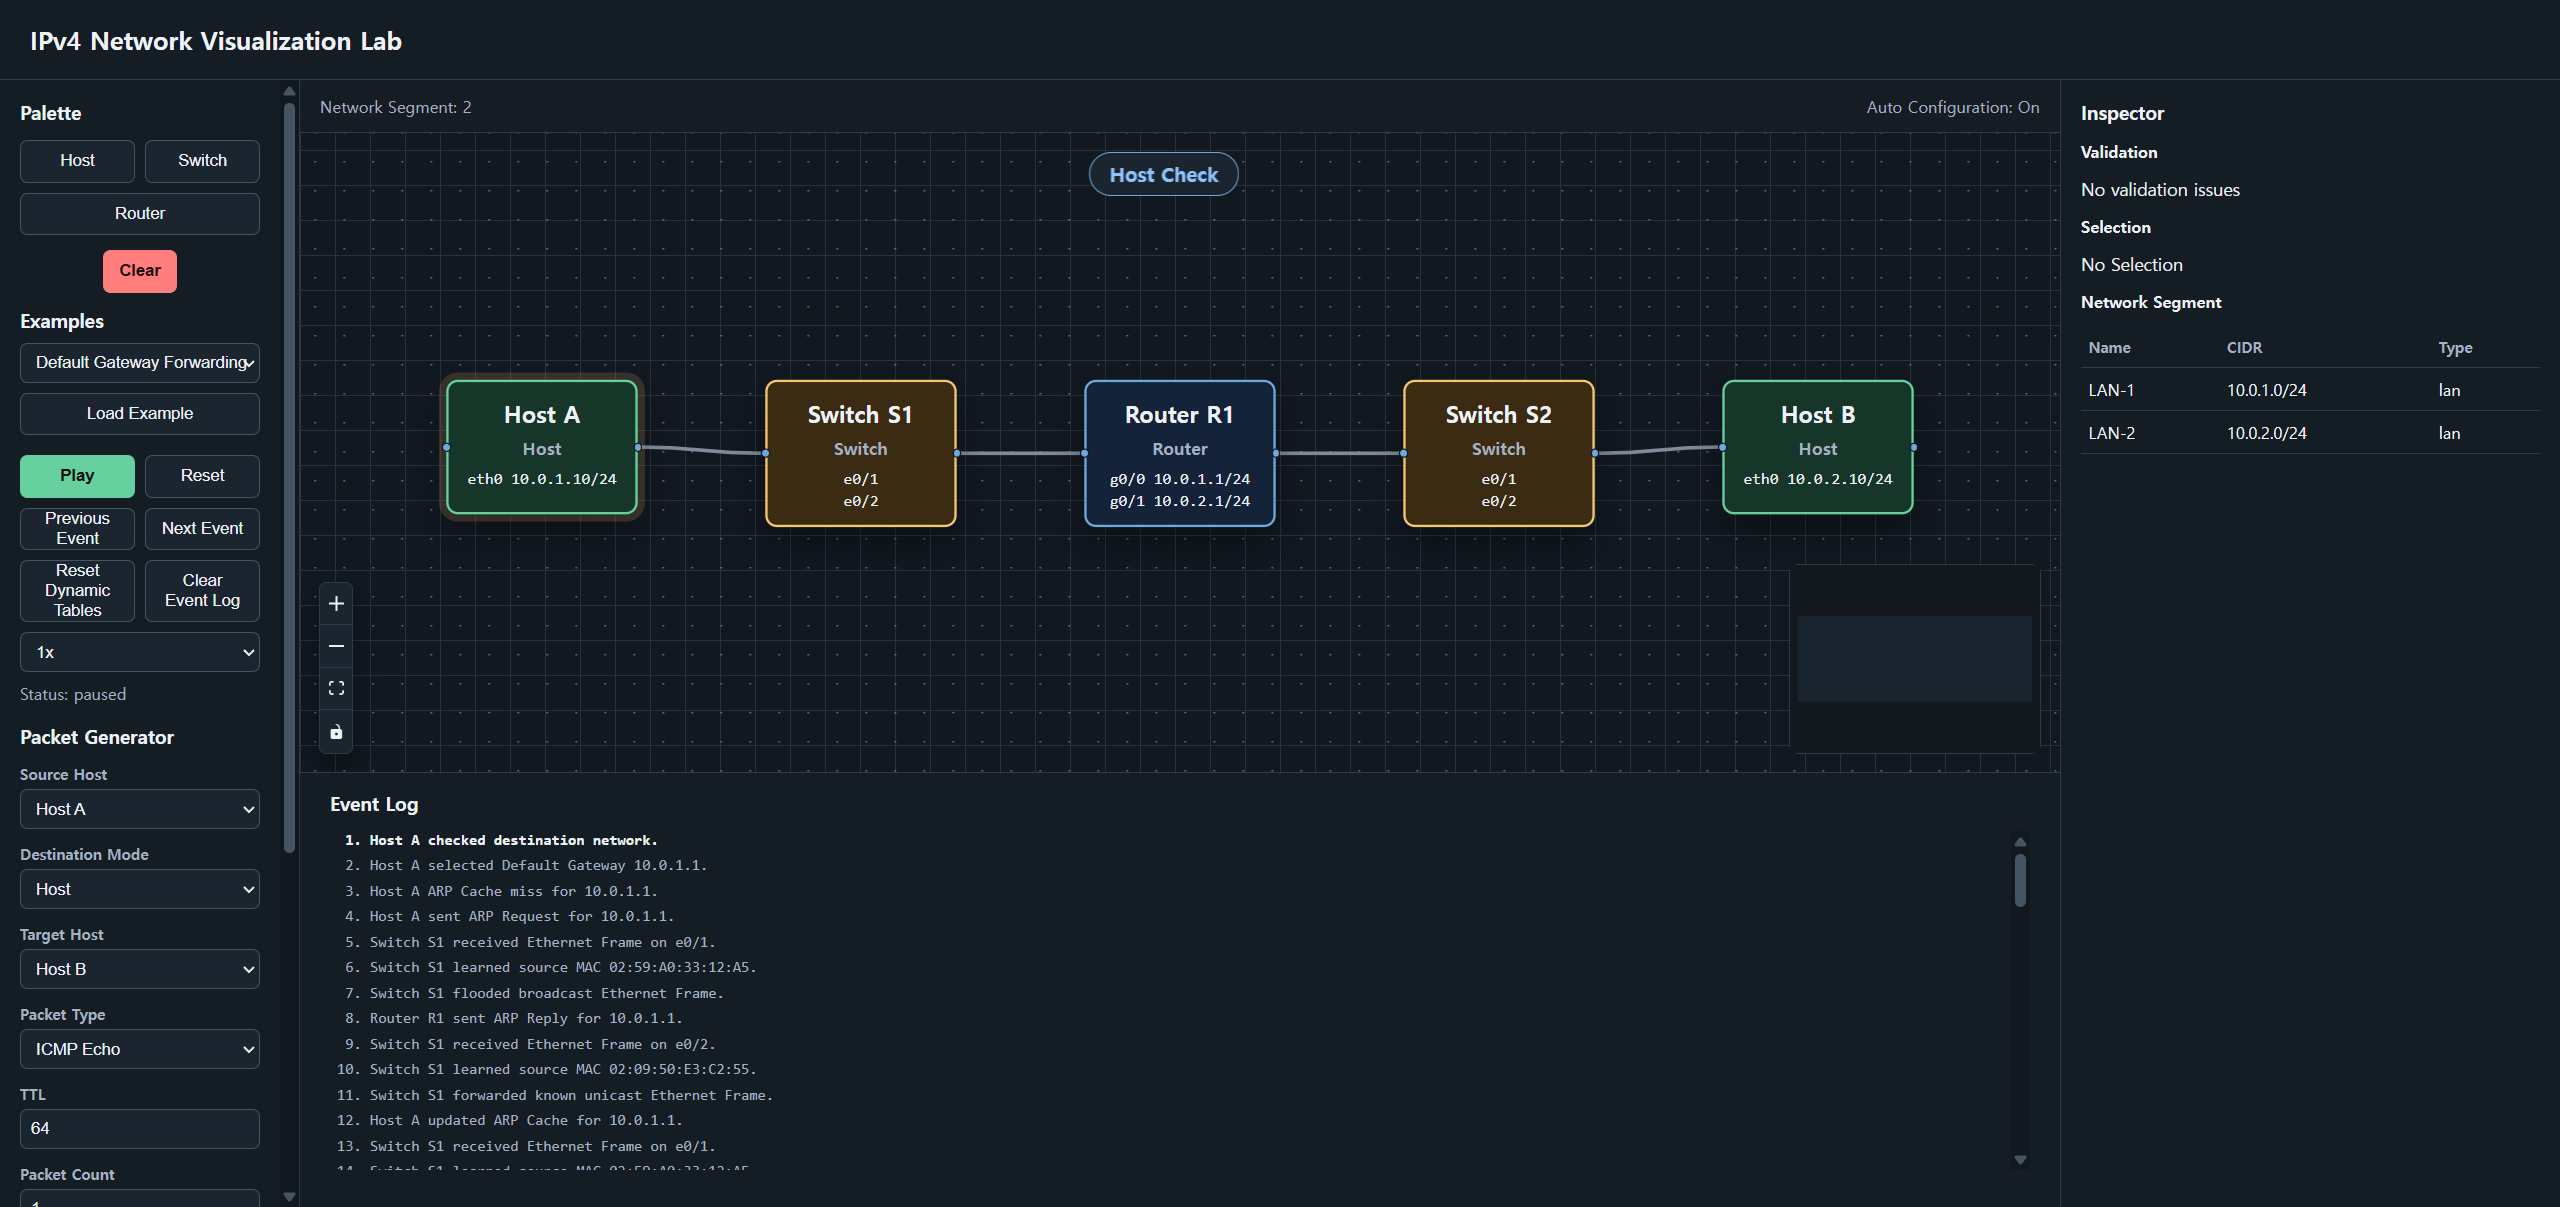
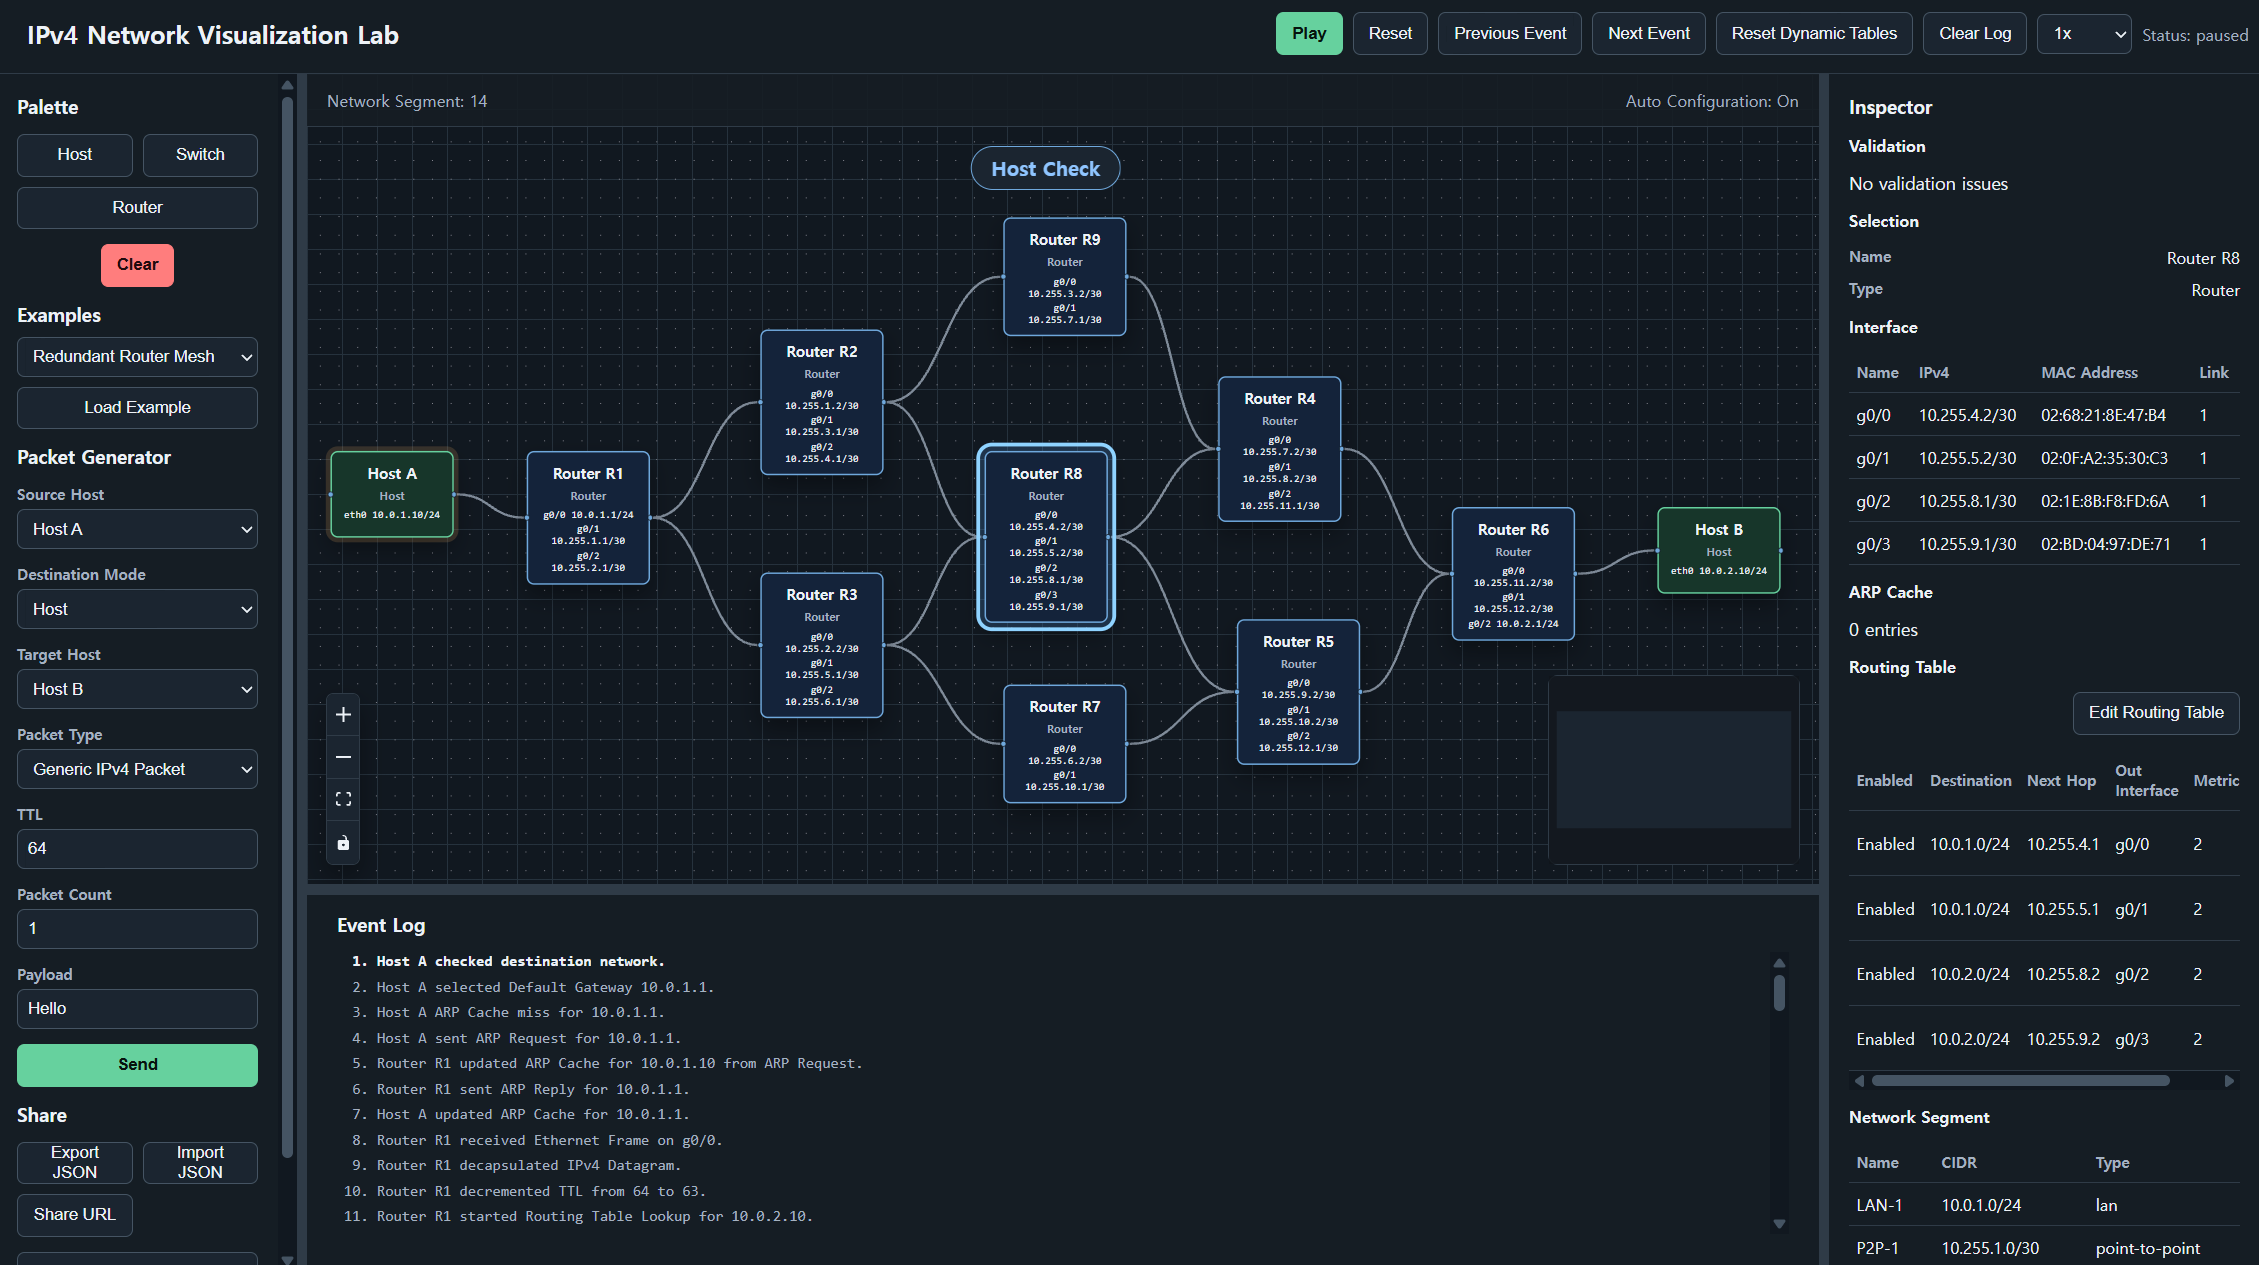
Update README examples and image

diff --git a/README.md b/README.md
@@ -1,27 +1,23 @@
-# IPv4 Network Visualization Lab
+# IPv4 Network Visualization Lab - Net Lab
+
+Net Lab 브라우저에서 네트워크 토폴로지를 만들어 패킷의 이동 과정을 관찰할 수 있는 네트워크 시뮬레이터 입니다.
+
+[Demo](https://nlab.limeskin.kr/)
 
 ![IPv4 Network Visualization Lab 프로젝트 화면](docs/images/project-page.png)
 
-IPv4 Network Visualization Lab은 브라우저에서 네트워크 토폴로지를 만들고, 패킷이 이동하는 과정을 눈으로 따라가며 학습할 수 있는 교육용 시뮬레이터입니다.
-
-`Host`, `Switch`, `Router`, `Link`를 캔버스에 배치하면 앱이 `Network Segment`, IP 주소, `Default Gateway`, 라우팅 정보를 자동으로 구성합니다. 사용자는 복잡한 설정을 먼저 외우기보다, 네트워크가 실제로 어떤 순서로 동작하는지 화면에서 확인할 수 있습니다.
+`Host`, `Switch`, `Router`를 캔버스에 자유롭게 배치하고 연결해 네트워크를 구성하면 자동으로 IP 주소와 `Routing Table`을 구성합니다. 사용자는 네트워크가 실제로 어떤 순서로 동작하는지 각 정보의 상태는 어떤지 화면에서 실시간으로 관찰할 수 있습니다.
 
 ## 주요 기능
 
-- 캔버스에서 `Host`, `Switch`, `Router`, `Link`로 토폴로지 구성
-- `Network Segment`, IP 주소, `Default Gateway` 자동 설정
+- 캔버스에서 `Host`, `Switch`, `Router`로 네트워크 토폴로지 구성
+- IP 주소/대역, `Routing Table` 자동 구성
 - `ICMP Echo Request`와 `ICMP Echo Reply` 흐름 시뮬레이션
 - `Generic IPv4 Packet` 전송과 RAW payload 확인
 - ARP 요청/응답, `ARP Cache`, 스위치 `MAC Address Table` 변화 추적
 - `Routing Table`, `Longest Prefix Match`, `TTL` 감소 과정 확인
 - 패킷 이동 애니메이션과 `Event Log`로 처리 단계 확인
-- URL 공유, JSON 내보내기/가져오기, 로컬 저장 지원
-
-## 이런 실험을 할 수 있습니다
-
-가장 기본적인 예시는 `Host A - Switch S1 - Router R1 - Switch S2 - Host B` 형태의 토폴로지입니다. `Host A`에서 `Host B`로 패킷을 보내면, `Host A`가 `Default Gateway`를 선택하고 ARP를 수행한 뒤, `Router R1`이 패킷을 받아 라우팅하고 다시 캡슐화하는 과정을 순서대로 볼 수 있습니다.
-
-동일 LAN 통신, 라우터 간 전달, MTU Fragmentation, 중복 라우터 경로, 라우팅 실패 같은 예제도 제공되어 네트워크 동작을 비교해 볼 수 있습니다.
+- URL 공유, JSON 내보내기/가져오기
 
 ## 실행하기
 
